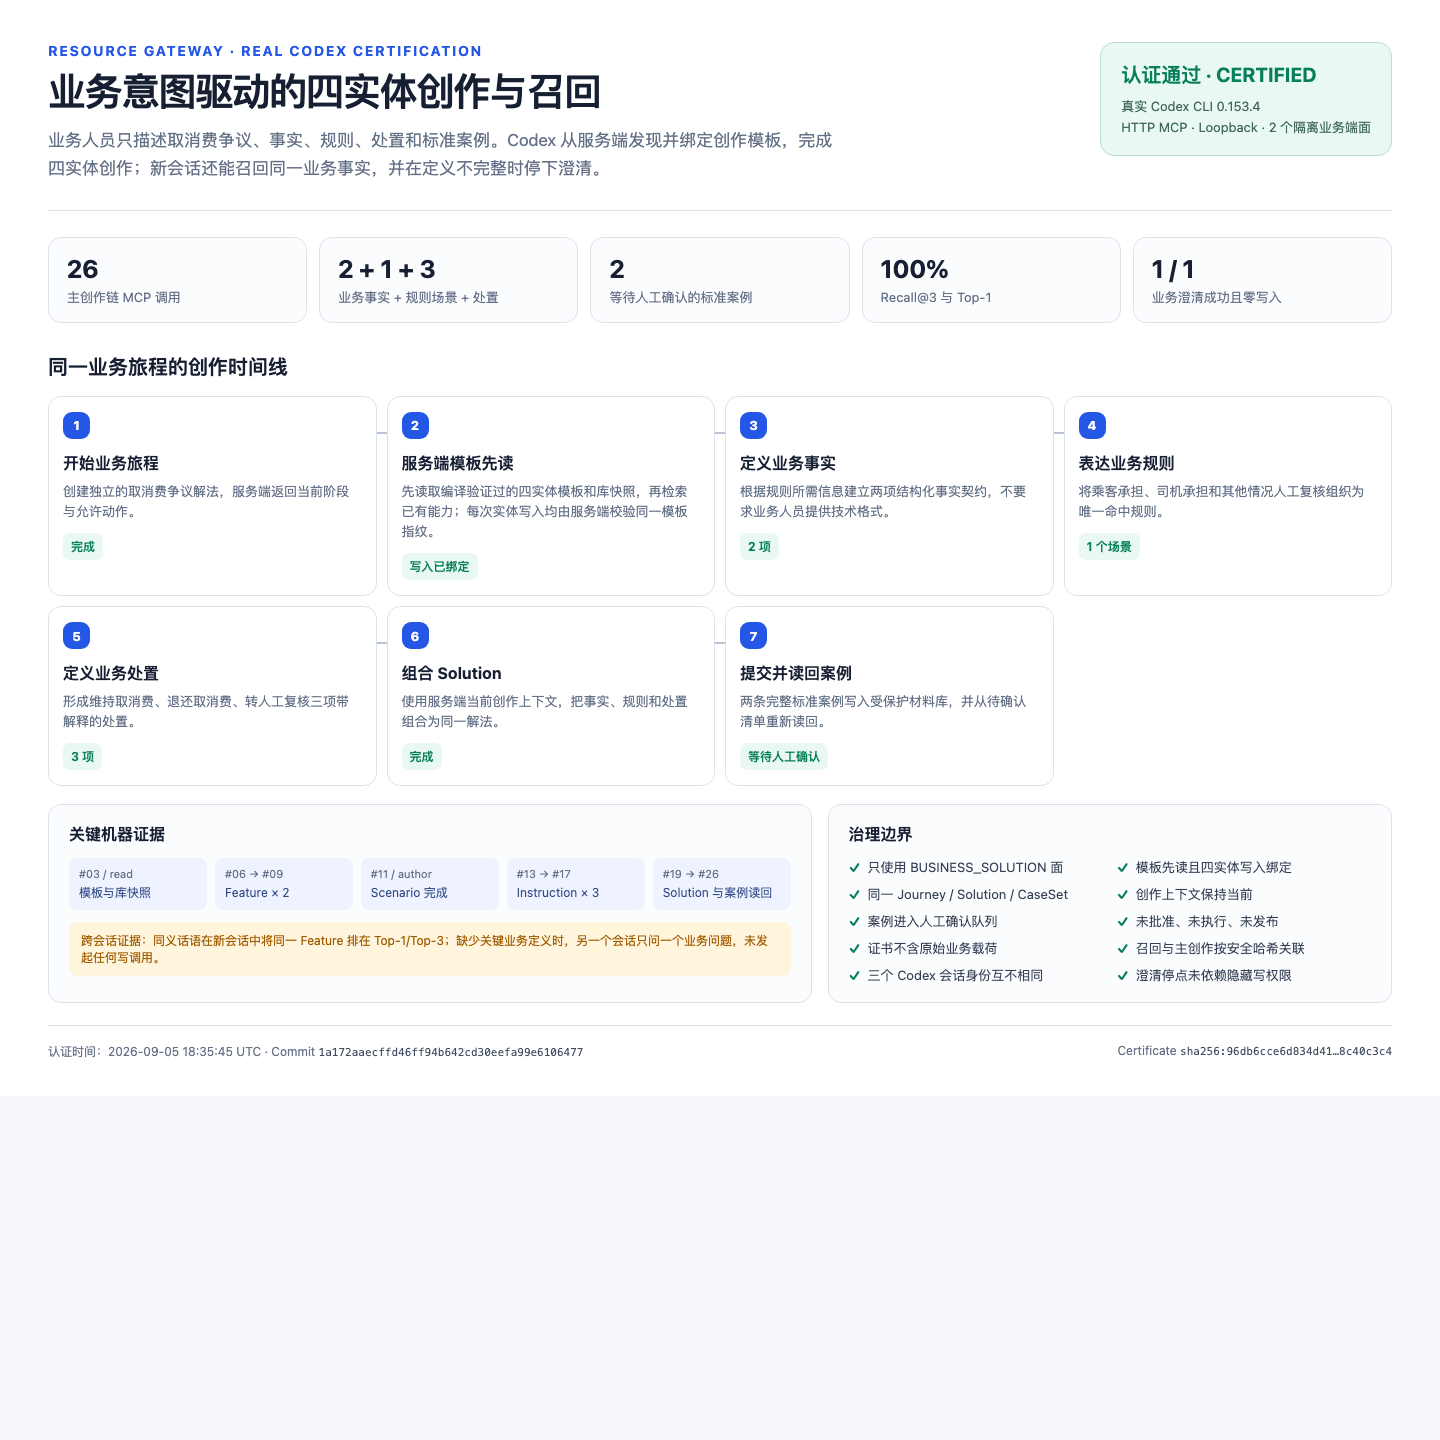
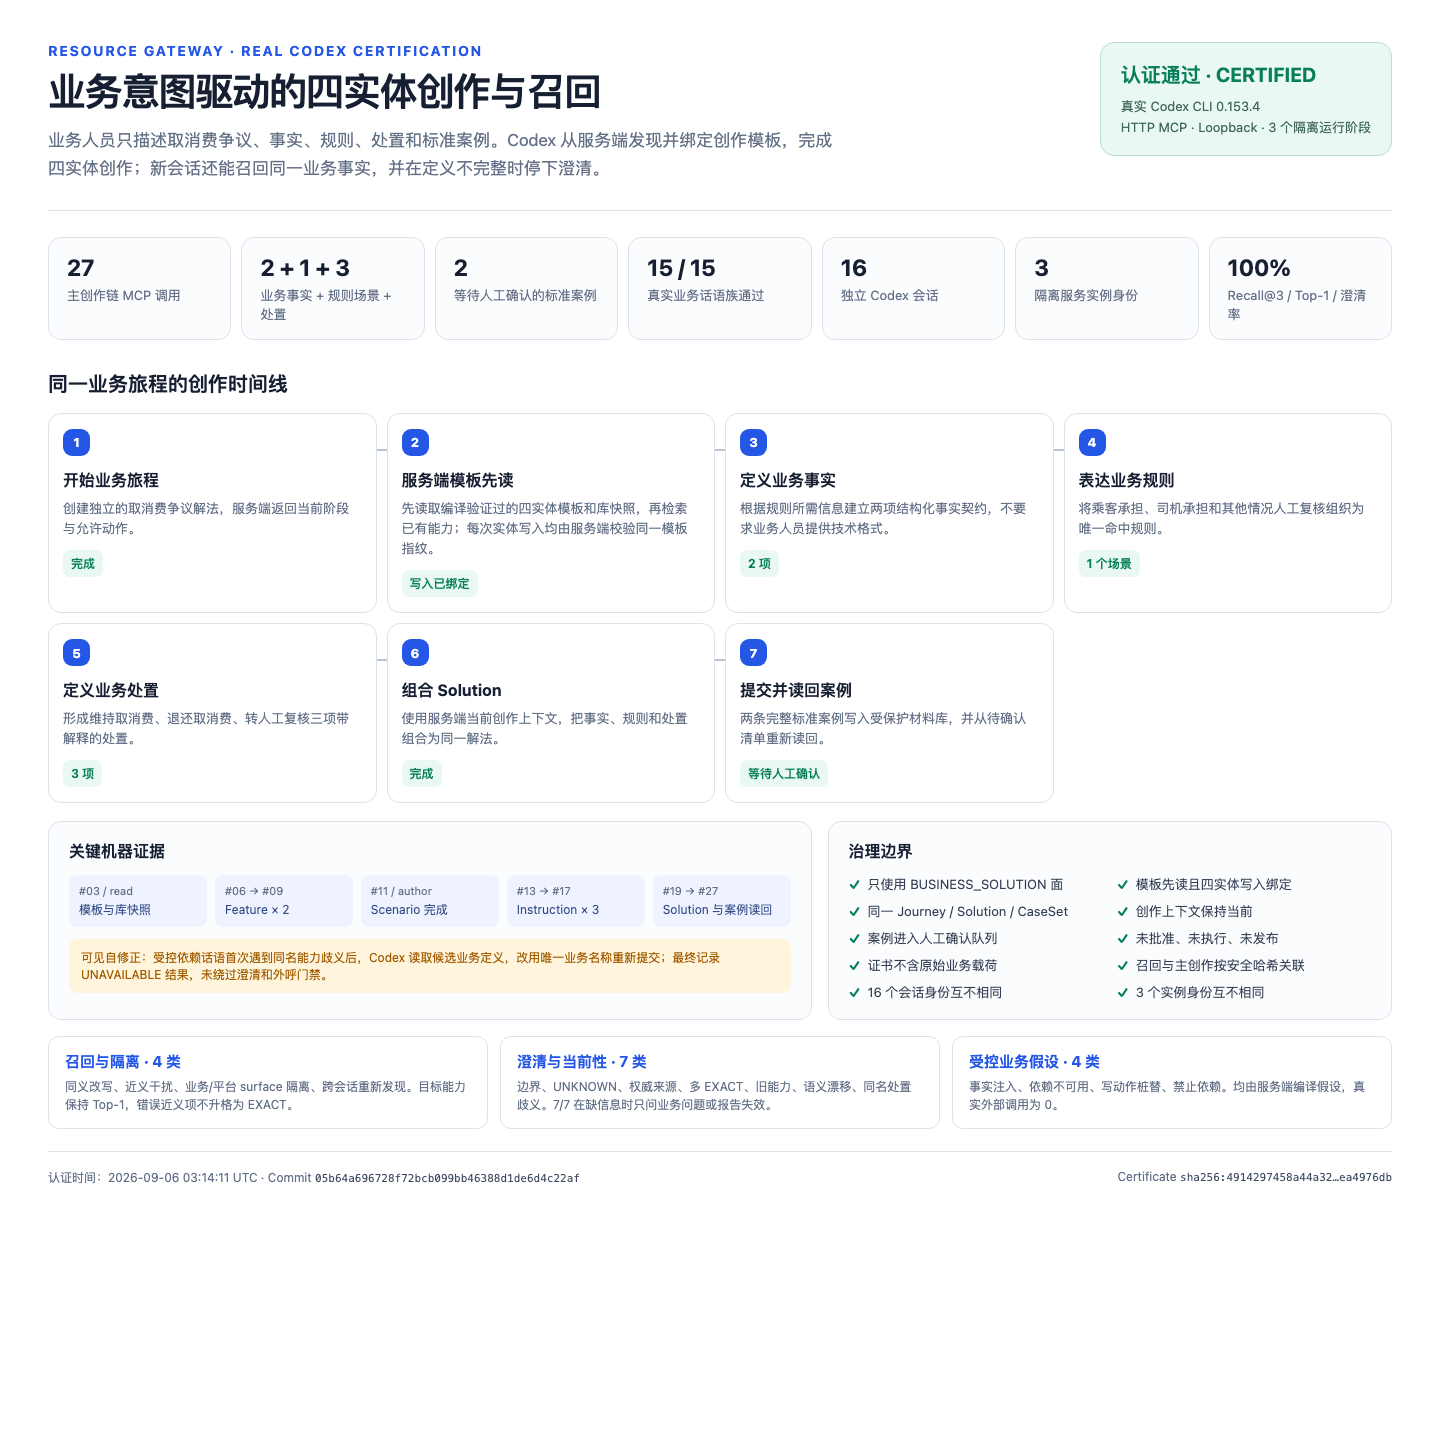
test(resource-gateway): retain complete business recall proof

diff --git a/docs/acceptance/agent-tdd/business-solution-codex-certification-v1.html b/docs/acceptance/agent-tdd/business-solution-codex-certification-v1.html
@@ -3,15 +3,15 @@
 <head>
   <meta charset="utf-8">
   <meta name="viewport" content="width=device-width, initial-scale=1">
-  <title>Codex 业务解法创作认证</title>
+  <title>Codex 业务解法创作与召回认证</title>
   <style>
     :root { color-scheme: light; --ink:#172033; --muted:#647087; --line:#dce2ec;
       --blue:#2457e6; --blue-soft:#eef3ff; --green:#087f5b; --green-soft:#e9f8f2;
       --amber:#a15c00; --amber-soft:#fff4dc; --paper:#fff; --bg:#f4f6fa; }
     * { box-sizing: border-box; }
-    body { margin:0; background:var(--bg); color:var(--ink); font-family:-apple-system,BlinkMacSystemFont,
+    html, body { margin:0; width:1440px; min-height:1440px; background:var(--bg); color:var(--ink); font-family:-apple-system,BlinkMacSystemFont,
       "Segoe UI","PingFang SC","Microsoft YaHei",sans-serif; }
-    main { width:100%; max-width:1440px; min-height:900px; margin:0 auto; padding:42px 48px 36px; background:var(--paper); }
+    main { width:1440px; min-height:1440px; margin:0; padding:42px 48px 36px; background:var(--paper); }
     header { display:flex; justify-content:space-between; gap:40px; align-items:flex-start;
       border-bottom:1px solid var(--line); padding-bottom:28px; }
     .eyebrow { color:var(--blue); font-size:14px; font-weight:700; letter-spacing:.12em; }
@@ -21,9 +21,9 @@
       background:var(--green-soft); }
     .seal strong { display:block; color:var(--green); font-size:20px; margin-bottom:7px; }
     .seal span { color:#40685a; font-size:13px; line-height:1.5; }
-    .metrics { display:grid; grid-template-columns:repeat(5,1fr); gap:12px; margin:26px 0; }
+    .metrics { display:grid; grid-template-columns:repeat(7,1fr); gap:10px; margin:26px 0; }
     .metric { border:1px solid var(--line); border-radius:13px; padding:16px 18px; background:#fbfcfe; }
-    .metric b { display:block; font-size:25px; margin-bottom:4px; }
+    .metric b { display:block; font-size:23px; margin-bottom:4px; }
     .metric span { color:var(--muted); font-size:13px; }
     h2 { font-size:20px; margin:30px 0 15px; }
     .timeline { display:grid; grid-template-columns:repeat(4,minmax(0,1fr)); gap:10px; position:relative; }
@@ -50,6 +50,10 @@
     .checks { display:grid; grid-template-columns:1fr 1fr; gap:9px 14px; }
     .check { font-size:13px; color:#344054; }
     .check::before { content:"✓"; color:var(--green); font-weight:800; margin-right:7px; }
+    .families { display:grid; grid-template-columns:repeat(3,1fr); gap:12px; margin-top:16px; }
+    .family { border:1px solid var(--line); border-radius:11px; padding:14px 16px; background:#fff; }
+    .family b { display:block; color:var(--blue); font-size:15px; margin-bottom:6px; }
+    .family p { margin:0; color:var(--muted); font-size:12px; line-height:1.5; }
     footer { margin-top:22px; padding-top:17px; border-top:1px solid var(--line); display:flex;
       justify-content:space-between; gap:20px; color:var(--muted); font-size:12px; }
     code { font-family:"SFMono-Regular",Consolas,monospace; font-size:11px; color:#3e4b61; }
@@ -63,15 +67,17 @@
       <h1>业务意图驱动的四实体创作与召回</h1>
       <p class="lead">业务人员只描述取消费争议、事实、规则、处置和标准案例。Codex 从服务端发现并绑定创作模板，完成四实体创作；新会话还能召回同一业务事实，并在定义不完整时停下澄清。</p>
     </div>
-    <div class="seal"><strong>认证通过 · CERTIFIED</strong><span>真实 Codex CLI 0.153.4<br>HTTP MCP · Loopback · 2 个隔离业务端面</span></div>
+    <div class="seal"><strong>认证通过 · CERTIFIED</strong><span>真实 Codex CLI 0.153.4<br>HTTP MCP · Loopback · 3 个隔离运行阶段</span></div>
   </header>
 
   <section class="metrics">
-    <div class="metric"><b>26</b><span>主创作链 MCP 调用</span></div>
+    <div class="metric"><b>27</b><span>主创作链 MCP 调用</span></div>
     <div class="metric"><b>2 + 1 + 3</b><span>业务事实 + 规则场景 + 处置</span></div>
     <div class="metric"><b>2</b><span>等待人工确认的标准案例</span></div>
-    <div class="metric"><b>100%</b><span>Recall@3 与 Top-1</span></div>
-    <div class="metric"><b>1 / 1</b><span>业务澄清成功且零写入</span></div>
+    <div class="metric"><b>15 / 15</b><span>真实业务话语族通过</span></div>
+    <div class="metric"><b>16</b><span>独立 Codex 会话</span></div>
+    <div class="metric"><b>3</b><span>隔离服务实例身份</span></div>
+    <div class="metric"><b>100%</b><span>Recall@3 / Top-1 / 澄清率</span></div>
   </section>
 
   <h2>同一业务旅程的创作时间线</h2>
@@ -93,9 +99,9 @@
         <div class="event"><em>#06 → #09</em>Feature × 2</div>
         <div class="event"><em>#11 / author</em>Scenario 完成</div>
         <div class="event"><em>#13 → #17</em>Instruction × 3</div>
-        <div class="event"><em>#19 → #26</em>Solution 与案例读回</div>
+        <div class="event"><em>#19 → #27</em>Solution 与案例读回</div>
       </div>
-      <div class="repair">跨会话证据：同义话语在新会话中将同一 Feature 排在 Top-1/Top-3；缺少关键业务定义时，另一个会话只问一个业务问题，未发起任何写调用。</div>
+      <div class="repair">可见自修正：受控依赖话语首次遇到同名能力歧义后，Codex 读取候选业务定义，改用唯一业务名称重新提交；最终记录 UNAVAILABLE 结果，未绕过澄清和外呼门禁。</div>
     </div>
     <div class="panel">
       <h3>治理边界</h3>
@@ -108,15 +114,21 @@
         <div class="check">未批准、未执行、未发布</div>
         <div class="check">证书不含原始业务载荷</div>
         <div class="check">召回与主创作按安全哈希关联</div>
-        <div class="check">三个 Codex 会话身份互不相同</div>
-        <div class="check">澄清停点未依赖隐藏写权限</div>
+        <div class="check">16 个会话身份互不相同</div>
+        <div class="check">3 个实例身份互不相同</div>
       </div>
     </div>
   </section>
 
+  <section class="families">
+    <article class="family"><b>召回与隔离 · 4 类</b><p>同义改写、近义干扰、业务/平台 surface 隔离、跨会话重新发现。目标能力保持 Top-1，错误近义项不升格为 EXACT。</p></article>
+    <article class="family"><b>澄清与当前性 · 7 类</b><p>边界、UNKNOWN、权威来源、多 EXACT、旧能力、语义漂移、同名处置歧义。7/7 在缺信息时只问业务问题或报告失效。</p></article>
+    <article class="family"><b>受控业务假设 · 4 类</b><p>事实注入、依赖不可用、写动作桩替、禁止依赖。均由服务端编译假设，真实外部调用为 0。</p></article>
+  </section>
+
   <footer>
-    <span>认证时间：2026-09-05 18:35:45 UTC · Commit <code>1a172aaecffd46ff94b642cd30eefa99e6106477</code></span>
-    <span>Certificate <code>sha256:96db6cce6d834d41…8c40c3c4</code></span>
+    <span>认证时间：2026-09-06 03:14:11 UTC · Commit <code>05b64a696728f72bcb099bb46388d1de6d4c22af</code></span>
+    <span>Certificate <code>sha256:4914297458a44a32…ea4976db</code></span>
   </footer>
 </main>
 </body>

diff --git a/resource-gateway-examples/src/test/java/com/leanowtech/bloge/gateway/agenttdd/AgentTddCodexCertificationArtifactTest.java b/resource-gateway-examples/src/test/java/com/leanowtech/bloge/gateway/agenttdd/AgentTddCodexCertificationArtifactTest.java
@@ -193,9 +193,10 @@ class AgentTddCodexCertificationArtifactTest {
 
         String report = Files.readString(BUSINESS_REPORT, StandardCharsets.UTF_8);
         assertThat(report).contains(
-                certificate.path("repositoryCommit").asText(), "26", "2 + 1 + 3",
+                certificate.path("repositoryCommit").asText(), "27", "2 + 1 + 3", "15 / 15",
                 "两条完整标准案例", "服务端模板先读", "写入已绑定",
-                "未批准、未执行、未发布", "Recall@3", "Top-1", "业务澄清");
+                "未批准、未执行、未发布", "Recall@3", "Top-1",
+                "16 个会话身份互不相同", "3 个实例身份互不相同", "UNAVAILABLE");
         var screenshot = ImageIO.read(BUSINESS_SCREENSHOT.toFile());
         assertThat(screenshot).isNotNull();
         assertThat(screenshot.getWidth()).isEqualTo(1440);
@@ -228,7 +229,7 @@ class AgentTddCodexCertificationArtifactTest {
                 "did not open the required private persistent state store",
                 "--production-tree-fingerprint", "PRODUCTION_TREE_FINGERPRINT",
                 "--family-manifest", "FAMILY_SUITE_FILE", "FAMILY_RUN_INDEX",
-                "near-meaning-distractor", "boundary-unspecified",
+                "near-meaning-distractor", "--phase ambiguity", "assumption-ambiguity",
                 "--board-projection", "/api/agent-tdd/board", "X-Purpose: AGENT_TDD_READ",
                 "X-RG-Surface\"=\"BUSINESS_SOLUTION",
                 "exec env", "SERVICE_PID=$!", "openssl rand -hex 32",
@@ -262,7 +263,7 @@ class AgentTddCodexCertificationArtifactTest {
         String output = new String(process.getInputStream().readAllBytes(), StandardCharsets.UTF_8);
 
         assertThat(process.waitFor()).as(output).isZero();
-        assertThat(output).contains("Ran 52 tests", "OK");
+        assertThat(output).contains("Ran 56 tests", "OK");
     }
 
     private String productionTreeFingerprint(String commit) throws Exception {

diff --git a/docs/resource-gateway-agent-tdd-mcp.md b/docs/resource-gateway-agent-tdd-mcp.md
@@ -551,15 +551,15 @@ HEAD 产出的 JAR，因此 Git 忽略的旧 `target/classes` 不能混入认证
 shell 或其他子进程绕过边界；结束时删除；
 仅在获批本机排障时才设置 `KEEP_RAW_CODEX_TRACE=true`，排障后立即删除。认证器只在私有内存中
 比较真实 ID 与候选内容；可入库证书保留工具名、顺序、状态、布尔断言、服务提交/JAR 摘要、生产源码树摘要、实例
-nonce 指纹，以及使用一次性随机密钥生成的 HMAC 关联指纹。三个 Codex thread identity 也只保存 HMAC，并且必须互不相同。密钥立即丢弃，因此证书可证明链内相等关系，但不能反推出 journey、Solution、case-set、case
+nonce 指纹，以及使用一次性随机密钥生成的 HMAC 关联指纹。16 个 Codex thread identity 也只保存 HMAC，并且必须互不相同。密钥立即丢弃，因此证书可证明链内相等关系，但不能反推出 journey、Solution、case-set、case
 或业务值。证书不保留参数、结果、消息和业务载荷。已审核样例见
 [`docs/acceptance/agent-tdd/business-solution-codex-certification-v1.json`](acceptance/agent-tdd/business-solution-codex-certification-v1.json)，
 严格 Schema 见
-[`docs/schemas/resource-gateway-business-recall-certification-v1.schema.json`](schemas/resource-gateway-business-recall-certification-v1.schema.json)。认证脚本在主创作之后继续启动两个独立 Codex 会话：同义业务话语只使用 READ 面召回刚创建的 Feature；业务定义缺字段的话语同时可见 READ 和业务创作面，但必须只问一个业务问题且不发起写调用。Reducer 用同一一次性 HMAC 关联主创作和召回候选。三个会话缺失、thread identity 重复、目标 Feature 不在 Top-1/Top-3、澄清会话越过停点、指标低于门槛或样本数为零时，严格 Schema 都拒绝 `CERTIFIED`。当前样例的三个指标均为 `1.0`，召回和澄清各有一个真实独立会话样本；它证明当前固定话语集通过，不代表所有自然语言表达均达到 100%。`productionTreeFingerprint` 绑定证书提交中的 `resource-gateway-examples/src/main`，后续仅文档或测试提交不会冒充生产实现变化。
+[`docs/schemas/resource-gateway-business-recall-certification-v1.schema.json`](schemas/resource-gateway-business-recall-certification-v1.schema.json)。认证脚本完成主创作后，继续以 15 条纯业务话语分别启动独立 Codex 会话。16 个会话必须具有互不相同的 thread identity；三个 fixture 阶段必须来自互不相同的服务实例 nonce。Reducer 用一次性 HMAC 关联主创作、目标能力、阶段 manifest 和各会话观察结果。任一话语族缺失、身份重复、召回目标不在 Top-1/Top-3、澄清越过停点、受控测试发生外呼、过期 GOLDEN 被接受或指标低于门槛时，严格 Schema 都拒绝 `CERTIFIED`。当前样例包含 2 个召回样本和 7 个澄清样本，Recall@3、Top-1 和澄清率均为 `1.0`；15 个话语族全部通过。它证明当前固定测试域话语集通过，不代表任意自然语言表达均达到 100%。`productionTreeFingerprint` 绑定证书提交中的 `resource-gateway-examples/src/main`，后续仅文档或测试提交不会冒充生产实现变化。
 
 15 类认证的 fixture 分三次加入。同义召回后只加入近义干扰项；缺字段澄清、跨会话恢复、事实假设和三类受控依赖完成后，才加入多个 EXACT、旧 Feature 和语义漂移资产；两个同名“退款执行”动作只在最后一个歧义会话前加入。后置资产不能提前改变主解法的能力绑定。第三次加入使用当前第三个服务实例的受控脚本调用，不重启实例，也不把 fixture 数量、引用或预期状态写进业务提示词。最终 reducer 要求私有 manifest 同时证明三次有序写入和全部资产关系。
 
-仓库留存当前通过证据：[机器证书](acceptance/agent-tdd/business-solution-codex-certification-v1.json)、[可视化过程报告](acceptance/agent-tdd/business-solution-codex-certification-v1.html) 和 [过程截图](acceptance/agent-tdd/business-solution-codex-certification-v1.png)。截图从同一 payload-free 证书渲染，展示服务端模板先读、四实体写入绑定同一模板、能力发现、两项事实、一个规则场景、三项处置、Solution、两条待确认案例、跨会话同义召回和缺字段澄清。截图是可追溯的认证过程投影，不冒充 Codex 界面截图；它便于人工审阅，不替代 JSON Schema、模板指纹、JAR 指纹、生产源码树指纹、进程所有权和前后运行身份校验。
+仓库留存当前通过证据：[机器证书](acceptance/agent-tdd/business-solution-codex-certification-v1.json)、[可视化过程报告](acceptance/agent-tdd/business-solution-codex-certification-v1.html) 和 [过程截图](acceptance/agent-tdd/business-solution-codex-certification-v1.png)。截图从同一 payload-free 证书渲染，展示服务端模板先读、四实体写入绑定同一模板、能力发现、两项事实、一个规则场景、三项处置、Solution、两条待确认案例、15 类真实业务话语、16 个独立会话、3 段隔离实例和受控依赖自修正。截图是可追溯的认证过程投影，不冒充 Codex 界面截图；它便于人工审阅，不替代 JSON Schema、模板指纹、JAR 指纹、生产源码树指纹、进程所有权和前后运行身份校验。
 
 脚本已在同一 Shell 完成“构建 → 启动 → 认证 → 停止”。清理 `trap` 在创建第一个临时目录之前
 安装，因此后续 `mktemp`、权限调整、凭据复制、随机量生成、构建或认证任一步失败，均会清理已经

diff --git a/docs/rg-evolution-design-1.4.6.md b/docs/rg-evolution-design-1.4.6.md
@@ -1392,7 +1392,7 @@ gateway:
 | P2 统一能力索引 | 已完成 | 四实体、算子库、运行时资源、GraphDraft、发布物统一业务投影；双重完整物化稳定快照；独立 display 资产行进入 generation vector；索引按 businessName、aliases、tags、whenToUse 和 whenNotToUse 召回；同一 alias 命中多个 ACTIVE semantic key 时返回 AMBIGUOUS，且候选不升格为 EXACT；范围隔离、确定性去重、排序、游标绑定与 stale 失败关闭均有测试 |
 | P3 四实体业务语义契约族 | 已完成 | Feature、Scenario、Instruction、Solution 各有结构化语义 profile 和独立 `BusinessCapabilityDisplay`；journey 新写入拒绝缺少 display 的结构化定义；未知字段和超界列表失败关闭；旧版 UNKNOWN/PARTIAL 和 legacy display 只读兼容；matcher 按 profile 比较封闭业务维度；实现 binding 排除于业务身份；display-only 修订不改变 contract fingerprint、implementation fingerprint、主资产 revision 或证据 currentness；服务端四实体模板提供完整 display 构造 |
 | P4 journey 与受控测试 | 已完成 | journey start/next、资产派生阶段、revision lock、allowed tools、业务 compose context、完整 GOLDEN 提议/人工批准、受保护 material receipt、无明文降级、旧 GOLDEN 重提议门；`AssetReadSnapshot` 以 JDBC 单查询或内存单互斥区冻结 journey、四实体、case-set、evidence、signoff 和 publication，阶段派生与 currentness 校验不再读取可变仓储；`CANCELLED` 在资产解释前进入终态，只允许 `rg.journey.next`，所有写动作失败关闭；测试覆盖旧 journey revision、资产读点漂移、`BLOCKED` 恢复和取消后写守卫；独立 `BusinessFixtureCompiler` 在同一冻结闭包内解析 Feature 与 Instruction 依赖，锁定独立 display 行并以业务名称/aliases 唯一绑定受控假设，描述文本不参与身份匹配，校验受控返回和预期处置契约，并编译确定性 `ControlledAssumptionPlan`；case-scoped Feature/Instruction adapter 不持有真实后端，依赖失败形成可由 Oracle 显式匹配的闭集业务结果，`MUST_NOT_BE_USED` 仅在路径触达时失败；`DENY_ALL` 探针在 HTTP、Feature 或 Instruction 外呼前返回 `CONTROLLED_TEST_EGRESS_DENIED`，且不保存 GREEN evidence；统一 currentness verifier 同时校验 scope、journey、Solution 实现、case-set、受控计划、冻结 Feature/Instruction、编译器版本和 `DENY_ALL`；平台 WRITE 执行器按 receipt 在内存解析同一受保护案例并对账，case-set 和 evidence 不落明文；零外呼测试及真实 HTTP MCP 主线认证 |
-| P5 真实召回认证 | 已完成 | 当前干净提交已通过三个独立真实 Codex 会话：“业务创作→新会话同义召回→缺字段时单问题澄清”；三个 thread identity 仅以一次性 HMAC 留存且必须互不相同；召回候选与主链 Feature 按真实引用和契约指纹关联，目标位于 Top-1/Top-3；澄清会话可见业务写面但写调用为零；机器证书绑定独立 JAR、进程身份、生产源码树、服务端模板和库快照，Schema 直接编码 §14.4 的非零样本与指标门；37 个证书正反例通过；JSON、可视化过程报告和 1440×1440 截图留存。§14.3 的 15 类语义反例由 matcher、surface、journey、currentness 和受控假设测试逐类失败关闭，真实 Codex 证书保留三类代表性端到端会话 |
+| P5 真实召回认证 | 已完成 | 提交 `05b64a696728f72bcb099bb46388d1de6d4c22af` 已通过 16 个独立真实 Codex 会话和 3 段隔离服务实例；主创作链包含 27 次 MCP 调用，完成 2 项 Feature、1 个 Scenario、3 项 Instruction、1 个 Solution 和 2 条待人工确认的完整 GOLDEN 案例；15 类业务话语逐类形成真实端到端证据，覆盖 2 个召回样本、7 个澄清样本、4 类受控假设及当前性和 surface 隔离；Recall@3、Top-1、澄清率均为 100%，外部动作逃逸、受控测试外呼和过期 GOLDEN 接受数均为 0；16 个 thread identity 和 3 个实例 nonce 只以一次性 HMAC/指纹留存且必须互不相同；机器证书绑定独立 JAR、进程身份、生产源码树、服务端模板、库快照和三阶段 fixture manifest；证书 reducer 的 56 个组合正反例及业务 reducer 的 40 个专项用例通过；JSON、可视化过程报告和 1440×1440 截图留存。证书固定测试域话语集，不把该结果外推为任意自然语言的普遍准确率 |
 
 ## 21. 审阅决策点
 
